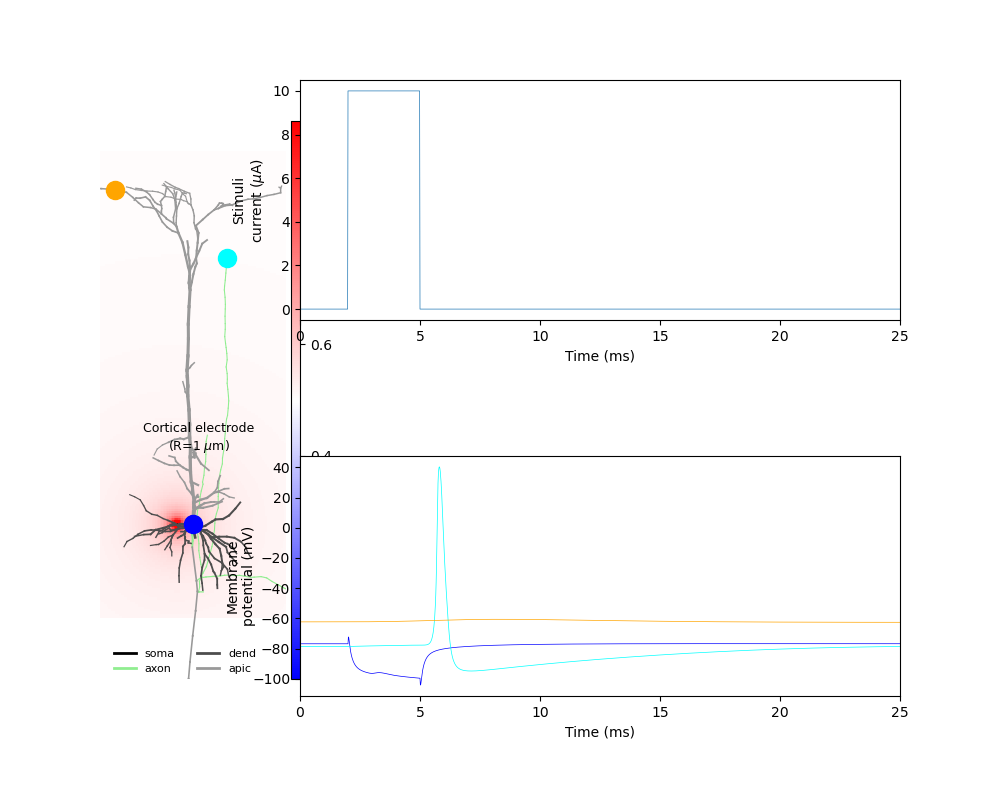
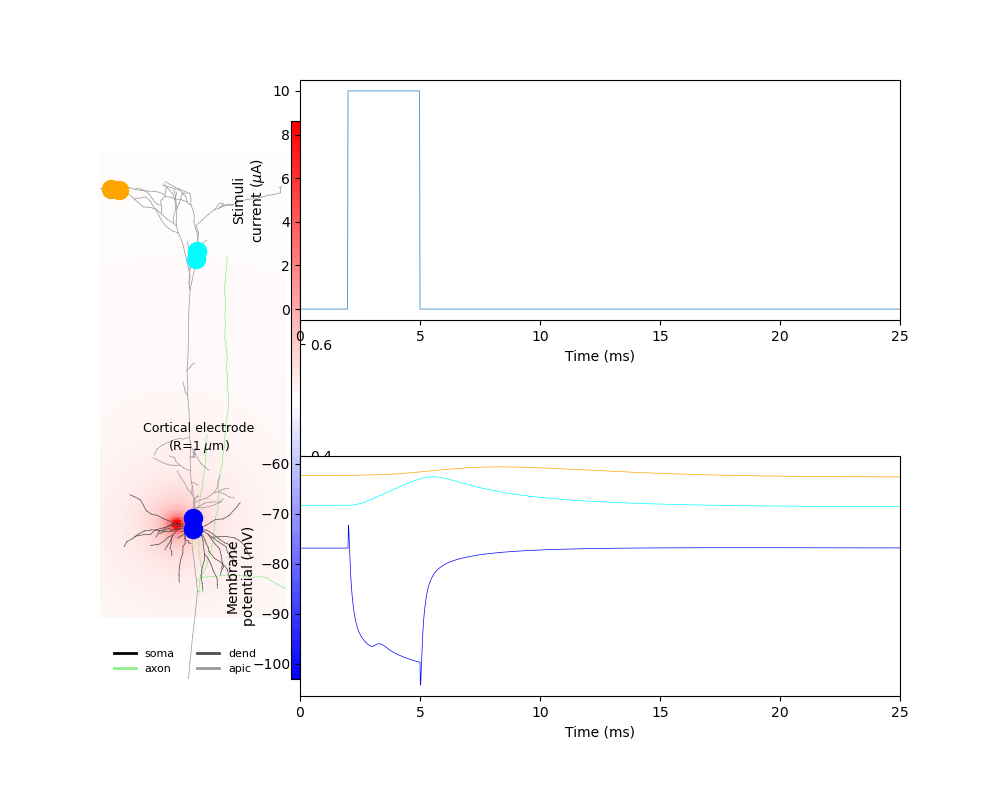
Converted some lines of code to new lfpy (2.2) version.

diff --git a/main.py b/main.py
@@ -38,7 +38,7 @@ class ExternalPotentialSim:
         self.x_shift = cell_params['x_shift']
         self.z_rot = cell_params['z_rot']
 
-    def return_cell(self, cell_models_folder, passive=True):
+    def return_cell(self, cell_models_folder, z=-3, passive=True):
 
         if self.cell_name == 'axon':
             model_path = join(cell_models_folder, 'unmyelinated_axon.hoc')
@@ -92,7 +92,9 @@ class ExternalPotentialSim:
                 'custom_code': [join(model_path, 'Cell parameters.hoc'),
                                 join(model_path, 'charge.hoc')]
             }
+            print('checkpoint 1')
             cell = LFPy.Cell(**cell_parameters)
+            print('checkpoint 2')
             # self.cell = cell
             self.v_init = cell_parameters['v_init']
 
@@ -110,7 +112,7 @@ class ExternalPotentialSim:
             Adjust positions as needed
             """
             cell.set_pos(z=-self.cell_dist_to_top)
-            cell.set_rotation(x=4.729, y=-3.05, z=-3)
+            cell.set_rotation(x=4.729, y=-3.05, z=z)
             return cell
 
     def create_measure_points(self, cell, com_coords):
@@ -138,14 +140,15 @@ class ExternalPotentialSim:
         """
 
         # Automatically setting electrode at a given distance from the measurement points
-        if not elec_positions:
+        if elec_positions.size == 0:
 
             for mp in self.measure_pnts:
 
                 elec_positions.append(
-                    np.array([int(cell.xmid[mp]) - 50, int(cell.ymid[mp]),
-                              int(cell.zmid[mp])], dtype=float))
-
+                    np.array([int(cell.x[mp]) - 50, int(cell.y[mp]),
+                              int(cell.z[mp])], dtype=float))
+            print(int(cell.x[mp]) - 50, int(cell.y[mp]),
+                  int(cell.z[mp]))
         return elec_positions
 
     def _calc_point_sources_field(self, elec_params):
@@ -160,7 +163,6 @@ class ExternalPotentialSim:
         self.elec_params = elec_params
         self.amp = elec_params['pulse_amp']  # External current amplitide
         # Electrode position
-        print('ex_stim', elec_params['positions'])
         self.x0, self.y0, self.z0 = elec_params['positions']
         sigma = elec_params['sigma']
         self.start_time = elec_params['start_time']
@@ -184,7 +186,7 @@ class ExternalPotentialSim:
 
         # Applying the external field function to the cell simulation
         v_cell_ext = np.zeros((cell.totnsegs, n_tsteps))
-        v_cell_ext[:, :] = self.ext_field(cell.xmid, cell.ymid, cell.zmid).reshape(
+        v_cell_ext[:, :] = self.ext_field(cell.x.mean(axis=1), cell.y.mean(axis=1), cell.z.mean(axis=1)).reshape(
             cell.totnsegs, 1) * self.pulse.reshape(1, n_tsteps)
 
         cell.insert_v_ext(v_cell_ext, t)
@@ -218,35 +220,42 @@ class ExternalPotentialSim:
         pass
 
     def run_ext_sim(self, cell_models_folder, elec_params, current_amps,  com_coords, stop_time, elec_positions=np.empty(3), passive=False):
+        cell_rot = [-3, 6]
+        cells = []
+        for z in cell_rot:
 
-        for cell_idx in cells:
-
-            cell = self.return_cell(cell_models_folder, passive)
+            print('cell rotation: ', z)
+            cell = self.return_cell(cell_models_folder, z, passive)
+            print('checkpoint 3')
             self.create_measure_points(cell, com_coords)
-            elec_positions = self.set_electrode_pos(cell)
+            elec_positions = self.set_electrode_pos(cell, elec_positions)
+            print(elec_positions)
             elec_dists = np.zeros((len(elec_positions), com_coords.shape[0]))
             ss_pot = np.zeros(len(elec_positions))
             dV = np.zeros(len(elec_positions))
-        # Neuron activation after cell object has been created
 
-        for I in current_amps:
+            for I in current_amps:
 
-            elec_params['pulse_amp'] = I
+                elec_params['pulse_amp'] = I
 
-            for idx, pos in enumerate(elec_positions):
-                elec_params['positions'] = pos
-                self.extracellular_stimuli(cell, elec_params)
-                self.run_cell_simulation(cell)
-                self.plot_cellsim(cell)
-                self._find_steady_state(cell)
-                ss_pot[idx] = self.v_ss
-                self._dV(cell)
-                dV[idx] = self.dV
-                elec_dists[idx] = self._record_dist_to_electrode(com_coords)
+                for idx, pos in enumerate(elec_positions):
+                    elec_params['positions'] = pos
+                    self.extracellular_stimuli(cell, elec_params)
+                    self.run_cell_simulation(cell)
+                    self.plot_cellsim(cell)
+                    self._find_steady_state(cell)
+                    ss_pot[idx] = self.v_ss
+                    self._dV(cell)
+                    dV[idx] = self.dV
+                    elec_dists[idx] = self._record_dist_to_electrode(
+                        com_coords)
 
-        self.plot_steady_state(elec_dists[:, 0], ss_pot)
-        self.plot_dV(elec_dists[:, 0], dV)
-        self.create_measure_points(cell, com_coords)
+            self.plot_steady_state(elec_dists[:, 0], ss_pot)
+            self.plot_dV(elec_dists[:, 0], dV)
+            self.create_measure_points(cell, com_coords)
+            cells.append(cell)
+            # cell.strip_hoc_objects()
+            # cell.__del__()
 
         # Freeing up some variables
         I = None
@@ -303,10 +312,10 @@ class ExternalPotentialSim:
                     if not ax_name in used_clrs:
                         used_clrs.append(ax_name)
 
-            self.ax_m.plot([cell.xstart[idx], cell.xend[idx]],
-                           [cell.zstart[idx], cell.zend[idx]], '-',
-                           c=c, clip_on=True, lw=np.sqrt(cell.diam[idx]) * 1)
-
+            self.ax_m.plot([cell.x[idx][0], cell.x[idx][1]],
+                           [cell.z[idx][0], cell.z[idx][1]], '-',
+                           c=c, clip_on=True, lw=0.5)
+            #np.sqrt(cell.diam[idx]) * 1
         lines = []
         for name in used_clrs:
             l, = self.ax_m.plot([0], [0], lw=2, c=sec_clrs[name])
@@ -315,7 +324,7 @@ class ExternalPotentialSim:
                          fontsize=8, loc=(0.05, 0.0), ncol=2)
 
         # Plotting dots at the middle of a given section in its given color
-        [self.ax_m.plot(cell.xmid[idx], cell.zmid[idx], 'o',
+        [self.ax_m.plot(cell.x[idx], cell.z[idx], 'o',
                         c=self.cell_plot_colors[idx], ms=13) for idx in self.cell_plot_idxs]
 
         self.ax_m.text(20, 40, "Cortical electrode\n(R={} $\mu$m)".format(self.elec_params["electrode_radii"]),
@@ -382,11 +391,18 @@ class ExternalPotentialSim:
         ax_stim.plot(cell.tvec, self.pulse / 1000, lw=0.5)
 
     def plot_cellsim(self, cell):
+        """
+        To add:
+        if placement:
+            plot in one figure
+        else:
+            separate figures
+        """
         # Simulating cell after all parameters and field has been added
         self.fig = plt.figure(figsize=[10, 8])
 
         # for m in self.measure_pnts:
-        #     print((cell.xmid[m], cell.ymid[m], cell.zmid[m]))
+        #     print((cell.x[m], cell.y[m], cell.z[m]))
 
         self.cell_plot_idxs = self.measure_pnts.astype(
             dtype='int')  # List of measurement points

diff --git a/hallermann_single_source_pulse.py b/hallermann_single_source_pulse.py
@@ -18,9 +18,9 @@ extPotSim = ExternalPotentialSim(cellsim_Hallermann_params)
 
 # Test parameters
 # current_amps = [2e4, -2e4, 1e4, -1e4, -8e3, 8e3, -7e3, 7e3, -5e3, 5e3]  # uA
-elec_positions = np.array([np.array([50, 0, -200], dtype=float),
-                           np.array([111, 131, 652], dtype=float),
-                           np.array([-200, 0, 0], dtype=float)])
+elec_positions = np.array([np.array([-50, 0, -200], dtype=float),
+                           np.array([60, 126, 659], dtype=float),
+                           np.array([-301, 39, 879], dtype=float)])
 
 
 # elec_positions = [np.array([[50, 0, -200], ], dtype=float),
@@ -32,14 +32,14 @@ elec_positions = np.array([np.array([50, 0, -200], dtype=float),
 current_amps = [1e4, -1e4]
 # elec_positions = [np.array([[-242, 7, 929], ], dtype=float)]
 
-measure_coordinates = np.array([[0, 0, -200], [130, 131, 652],
-                                [-242, 43, 929]])
-
 # measure_coordinates = np.array([[0, 0, -200], [130, 131, 652],
-#                                 [-242, 43, 929], [50, 40, 70]])
+#                                 [-242, 43, 929]])
+
+measure_coordinates = np.array(
+    [[-0, 0, - 200], [10, 126, 659], [-251, 39, 879]])
 start = time.time()
 # monophasic_pulse_params['stop_time'] = 20
 extPotSim.run_ext_sim(cell_models_folder, monophasic_pulse_params,
-                      current_amps, measure_coordinates, 20)
+                      current_amps, measure_coordinates, 20, elec_positions)
 end = time.time()
 print(f'Time to execute {end - start} seconds')

diff --git a/axon_single_source_pulse.py b/axon_single_source_pulse.py
@@ -18,8 +18,6 @@ RANK = COMM.Get_rank()
 """
 Improve plotting
 
-Add method for running over a set of electrode positions and current amplitudes
-
 Create plot of Hallermann pyrmidal cell (4 figs?) showing electrode near soma,
 dendrite and axon to demonstrate if activation is possible and at what current
 amplitude.
